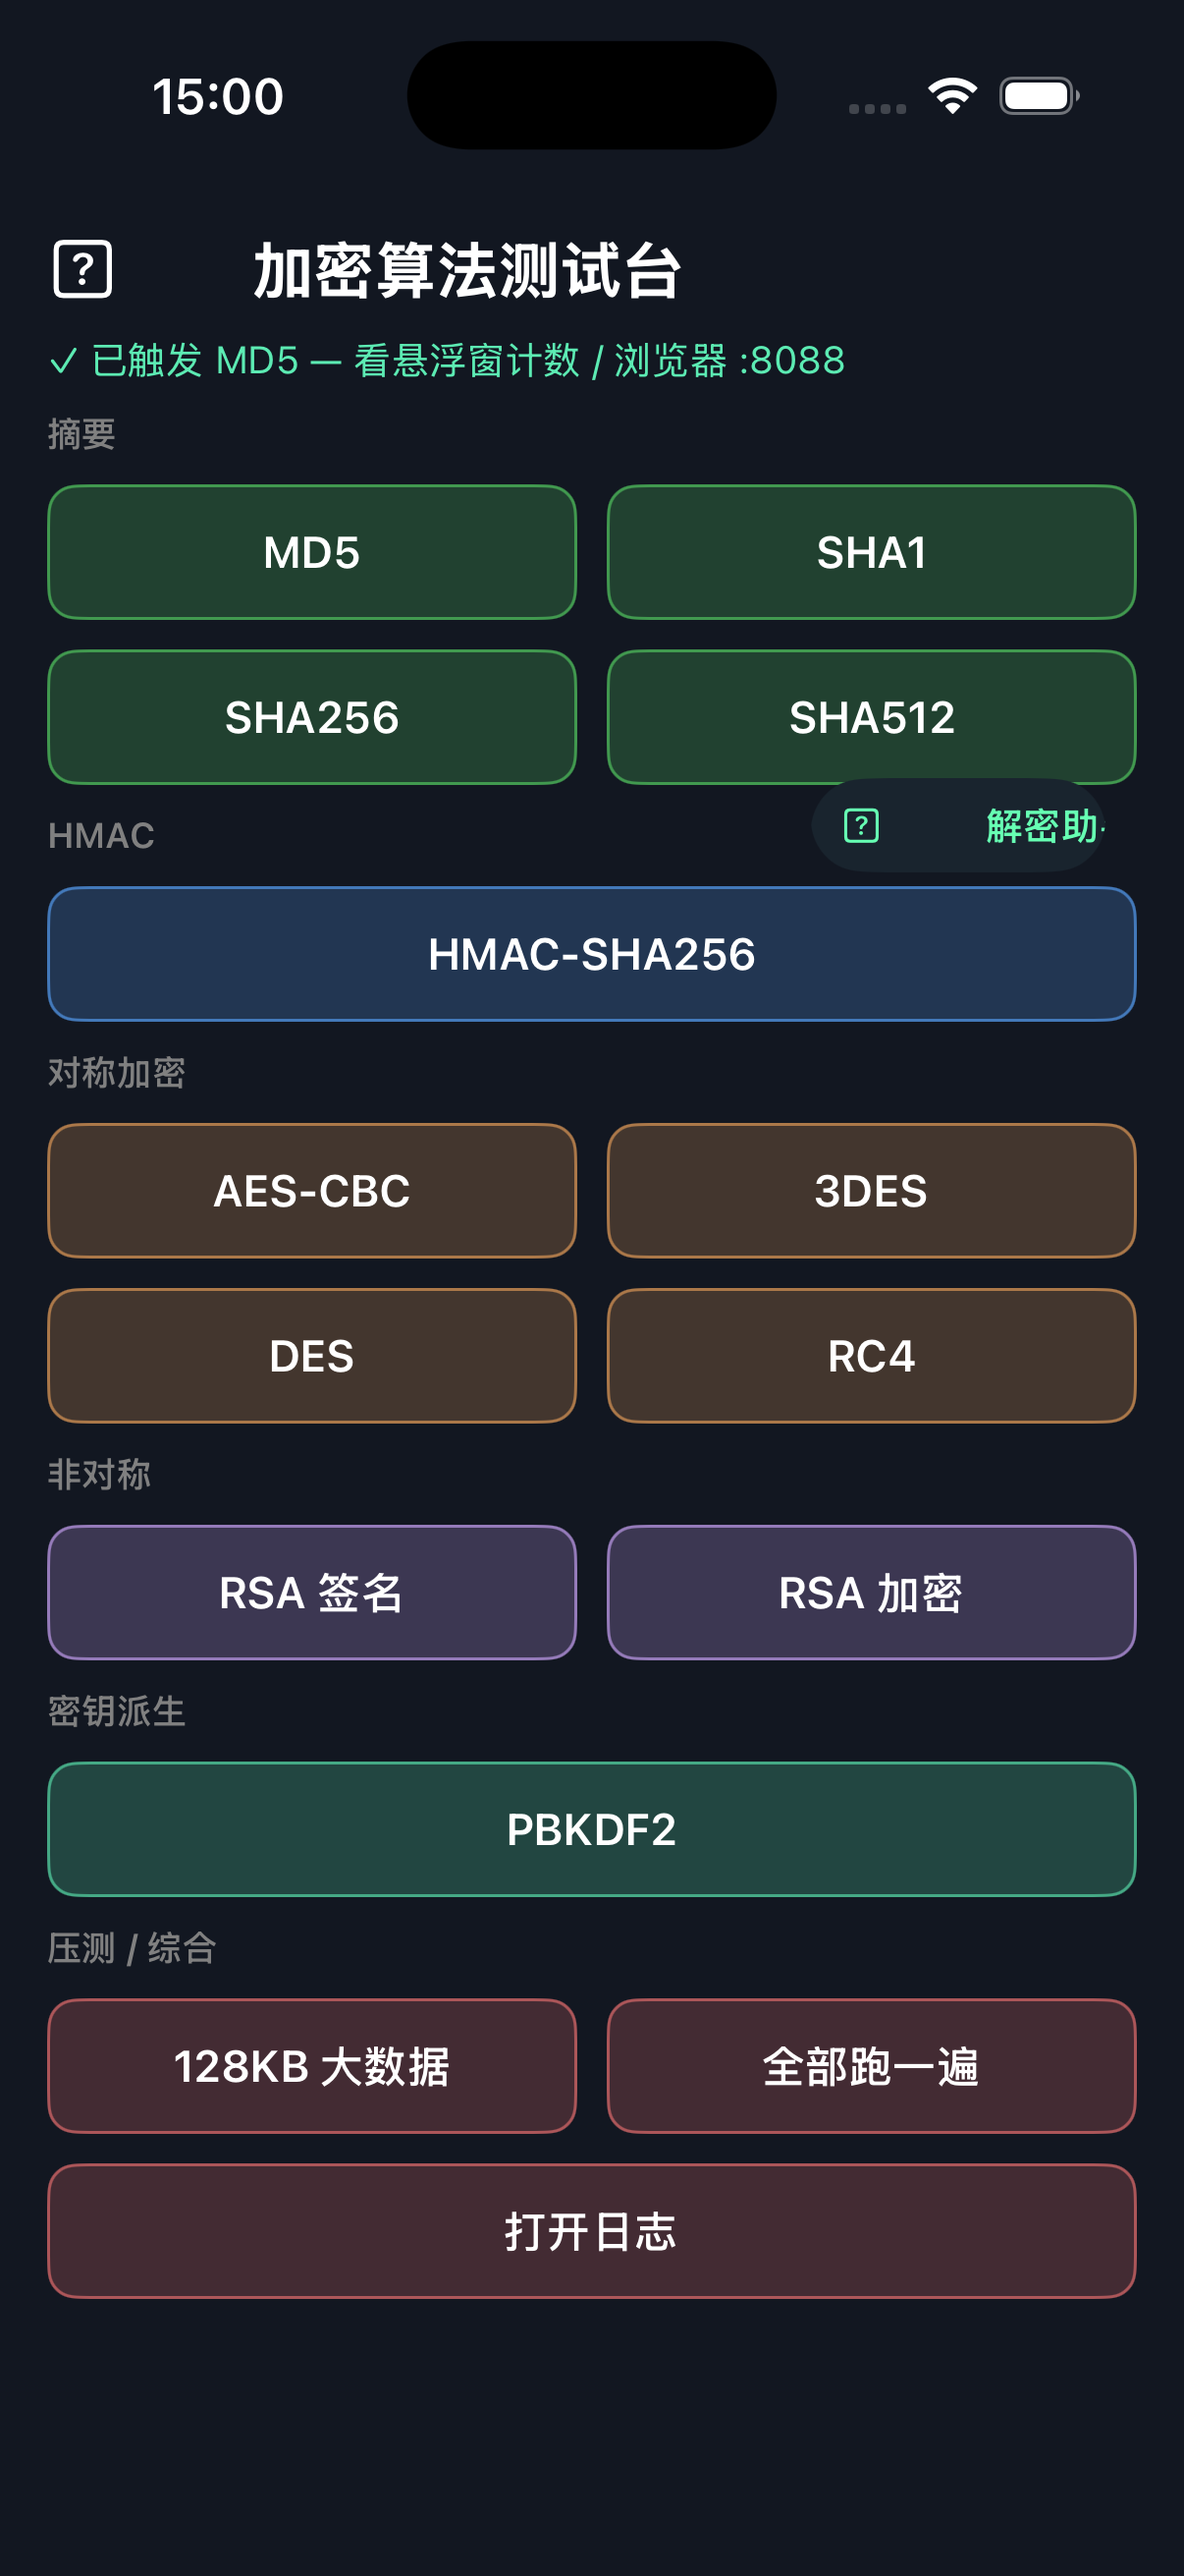
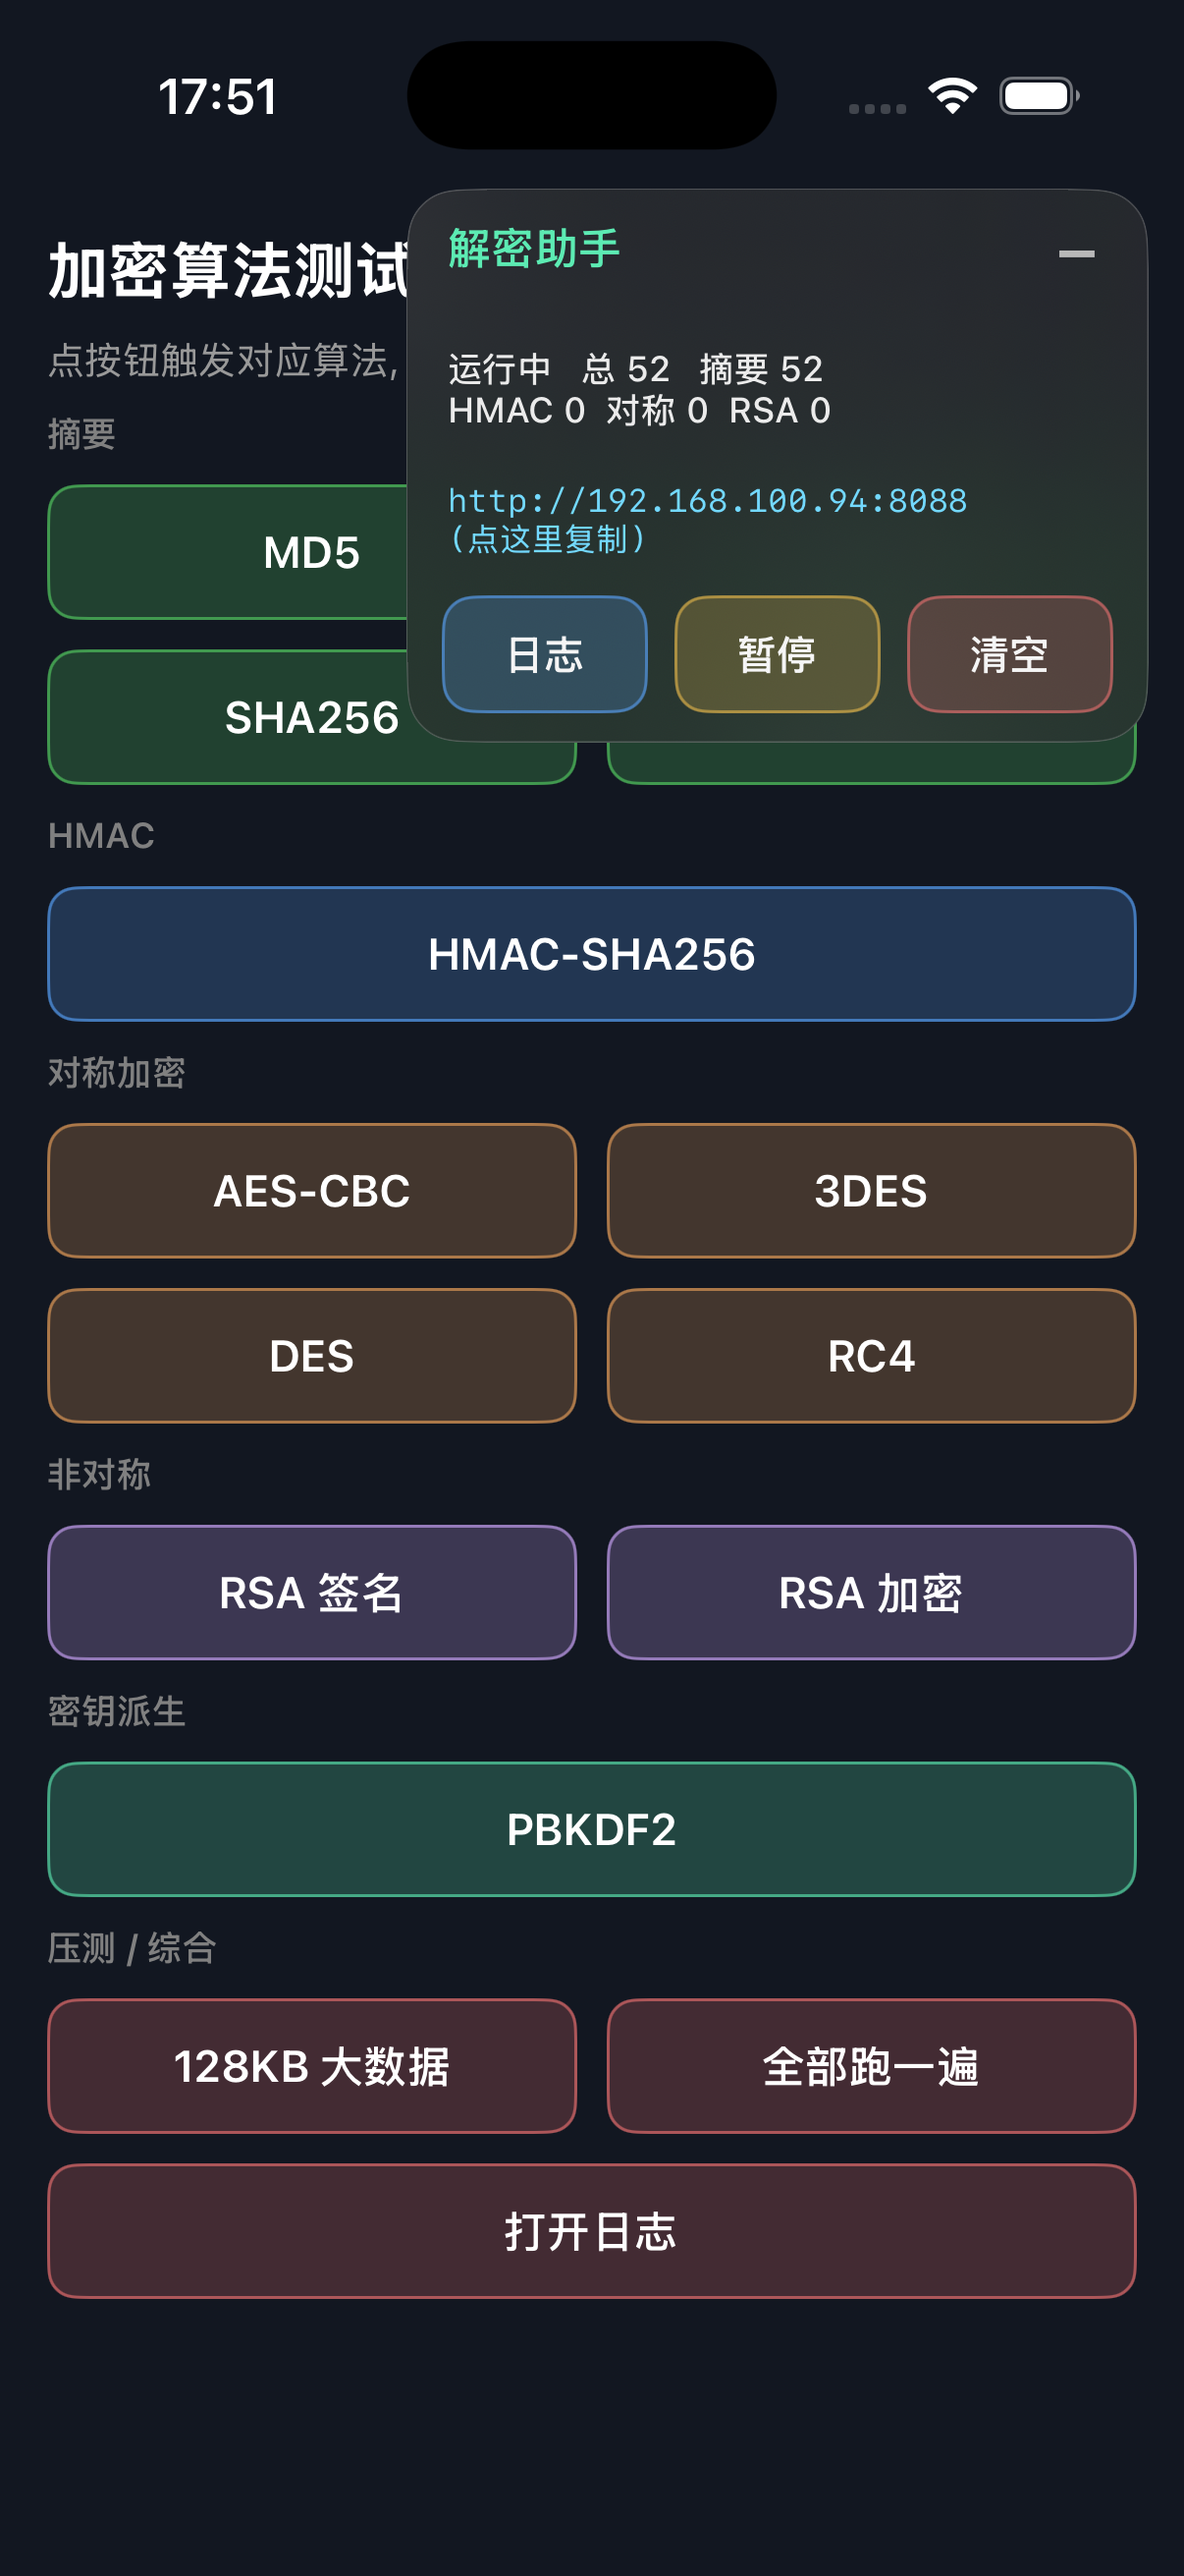
chore: 移除所有界面 emoji(Web 面板/测试App/注释), 全部改用纯文字
- Web: 去掉标题 key emoji、进程栏 phone emoji、状态 play/pause、错误 warning
- 测试App: 去掉标题 lock emoji、状态箭头与对勾
- 注释: 箭头符号改 ASCII(-> / <->)
- 更新截图

Changed region(s): [[0.0307, 0.0618, 0.9818, 0.3398], [0.1227, 0.0309, 0.2454, 0.0618]]

diff --git a/src/web_index_html.h b/src/web_index_html.h
@@ -70,7 +70,7 @@ static const char kDHIndexHTML[] =
 "</head>\n"
 "<body>\n"
 "<header>\n"
-"  <h1>🔑 解密助手</h1>\n"
+"  <h1>解密助手</h1>\n"
 "  <div class='stats' id='stats'>加载中…</div>\n"
 "  <div class='spacer'></div>\n"
 "  <button id='pauseBtn' class='warn'>暂停</button>\n"
@@ -134,7 +134,7 @@ static const char kDHIndexHTML[] =
 "  async function refreshStats() {\n"
 "    try {\n"
 "      stats = await fetchJSON('/api/stats');\n"
-"      const sp = stats.paused ? '⏸ 已暂停' : '▶ 运行中';\n"
+"      const sp = stats.paused ? '已暂停' : '运行中';\n"
 "      $('stats').innerHTML =\n"
 "        '<span>' + sp + '</span>' +\n"
 "        '<span>总: <b>' + stats.total + '</b></span>' +\n"
@@ -145,7 +145,7 @@ static const char kDHIndexHTML[] =
 "      $('pauseBtn').textContent = stats.paused ? '恢复' : '暂停';\n"
 "      const p = stats.process || {};\n"
 "      const pb = [];\n"
-"      if (p.appName) pb.push('<span>📱 <b>' + escapeHTML(p.appName) + '</b></span>');\n"
+"      if (p.appName) pb.push('<span><b>' + escapeHTML(p.appName) + '</b></span>');\n"
 "      if (p.bundleId) pb.push('<span>' + escapeHTML(p.bundleId) + '</span>');\n"
 "      if (p.pid) pb.push('<span>PID <b>' + p.pid + '</b></span>');\n"
 "      if (p.processName) pb.push('<span>' + escapeHTML(p.processName) + '</span>');\n"
@@ -153,7 +153,7 @@ static const char kDHIndexHTML[] =
 "      if (p.deviceModel) pb.push('<span>' + escapeHTML(p.deviceModel) + '</span>');\n"
 "      if (p.physicalMemoryMB) pb.push('<span>RAM <b>' + p.physicalMemoryMB + ' MB</b></span>');\n"
 "      $('procbar').innerHTML = pb.length ? pb.join('') : '<span class=\"none\">进程信息不可用</span>';\n"
-"    } catch(e) { $('stats').textContent = '⚠ ' + e.message; }\n"
+"    } catch(e) { $('stats').textContent = e.message; }\n"
 "  }\n"
 "  async function refreshList() {\n"
 "    const cat = $('catSel').value;\n"
@@ -162,7 +162,7 @@ static const char kDHIndexHTML[] =
 "    const url = '/api/logs?cat=' + encodeURIComponent(cat) + '&q=' + encodeURIComponent(q) + '&minSize=' + encodeURIComponent(minSize) + '&limit=500';\n"
 "    let entries = [];\n"
 "    try { entries = await fetchJSON(url); }\n"
-"    catch(e) { $('list').innerHTML = '<div class=\"empty\">⚠ ' + escapeHTML(e.message) + '</div>'; return; }\n"
+"    catch(e) { $('list').innerHTML = '<div class=\"empty\">' + escapeHTML(e.message) + '</div>'; return; }\n"
 "    $('count').textContent = entries.length + ' / ' + (stats.total || 0);\n"
 "    if (!entries.length) { $('list').innerHTML = '<div class=\"empty\">还没有日志…<br>触发应用里的加解密看看?</div>'; return; }\n"
 "    const out = [];\n"

diff --git a/sim_uitest/main.m b/sim_uitest/main.m
@@ -119,13 +119,13 @@ static void do_bigdata(void) {
     ]];
 
     UILabel *title = [UILabel new];
-    title.text = @"🔐 加密算法测试台";
+    title.text = @"加密算法测试台";
     title.font = [UIFont systemFontOfSize:22 weight:UIFontWeightBold];
     title.textColor = [UIColor whiteColor];
     [stack addArrangedSubview:title];
 
     self.status = [UILabel new];
-    self.status.text = @"点按钮触发对应算法 → 看右上角悬浮窗计数 / 浏览器 :8088";
+    self.status.text = @"点按钮触发对应算法, 看右上角悬浮窗计数 / 浏览器 :8088";
     self.status.font = [UIFont systemFontOfSize:13];
     self.status.numberOfLines = 0;
     self.status.textColor = [UIColor colorWithWhite:0.6 alpha:1.0];
@@ -199,7 +199,7 @@ static void do_bigdata(void) {
 }
 
 - (void)flash:(NSString *)name {
-    self.status.text = [NSString stringWithFormat:@"✓ 已触发 %@ — 看悬浮窗计数 / 浏览器 :8088", name];
+    self.status.text = [NSString stringWithFormat:@"已触发 %@, 看悬浮窗计数 / 浏览器 :8088", name];
     self.status.textColor = [UIColor colorWithRed:0.36 green:0.92 blue:0.70 alpha:1.0];
 }
 

diff --git a/src/hook_digest.m b/src/hook_digest.m
@@ -6,14 +6,14 @@
 // 为什么这样做:
 //   * 单参数版本 (CC_MD5/CC_SHA256 等) 一次拿到完整 data, 简单.
 //   * 流式版本 update 时调用方可能切片喂入, 必须把切片粘起来才能看到完整明文.
-//   * 用一个全局 NSMapTable (ctx指针 → NSMutableData) 关联, _Final 时取出并清理.
+//   * 用一个全局 NSMapTable (ctx指针 -> NSMutableData) 关联, _Final 时取出并清理.
 
 #import <Foundation/Foundation.h>
 #import <CommonCrypto/CommonDigest.h>
 #import "fishhook.h"
 #import "log_store.h"
 
-// =================== ctx ↔ buffer 关联 ===================
+// =================== ctx <-> buffer 关联 ===================
 static NSMapTable *gCtxBuffers = nil;     // weak->strong 不合适 (ctx 是裸指针), 用 strong->strong with manual cleanup
 static dispatch_semaphore_t gCtxLock = nil;
 

diff --git a/src/http_server.m b/src/http_server.m
@@ -57,7 +57,7 @@ static NSString *get_local_ip(void) {
             inet_ntop(AF_INET, &sin->sin_addr, buf, sizeof(buf));
             NSString *ifn = [NSString stringWithUTF8String:p->ifa_name];
             NSString *ip  = [NSString stringWithUTF8String:buf];
-            // 优先 Wi-Fi (en0) → 蜂窝 (pdp_ip0) → 其它
+            // 优先 Wi-Fi (en0) -> 蜂窝 (pdp_ip0) -> 其它
             if ([ifn isEqualToString:@"en0"]) { best = ip; break; }
             if ([ifn hasPrefix:@"en"] && !best) best = ip;
             if (!fallback) fallback = ip;

diff --git a/src/hook_hmac.m b/src/hook_hmac.m
@@ -56,7 +56,7 @@ static void hooked_CCHmac(CCHmacAlgorithm algorithm,
 }
 
 // ---------- streaming ----------
-// ctx pointer → (alg, key, data accumulator)
+// ctx pointer -> (alg, key, data accumulator)
 @interface DHHmacState : NSObject
 @property (nonatomic, assign) CCHmacAlgorithm alg;
 @property (nonatomic, strong) NSData *key;
